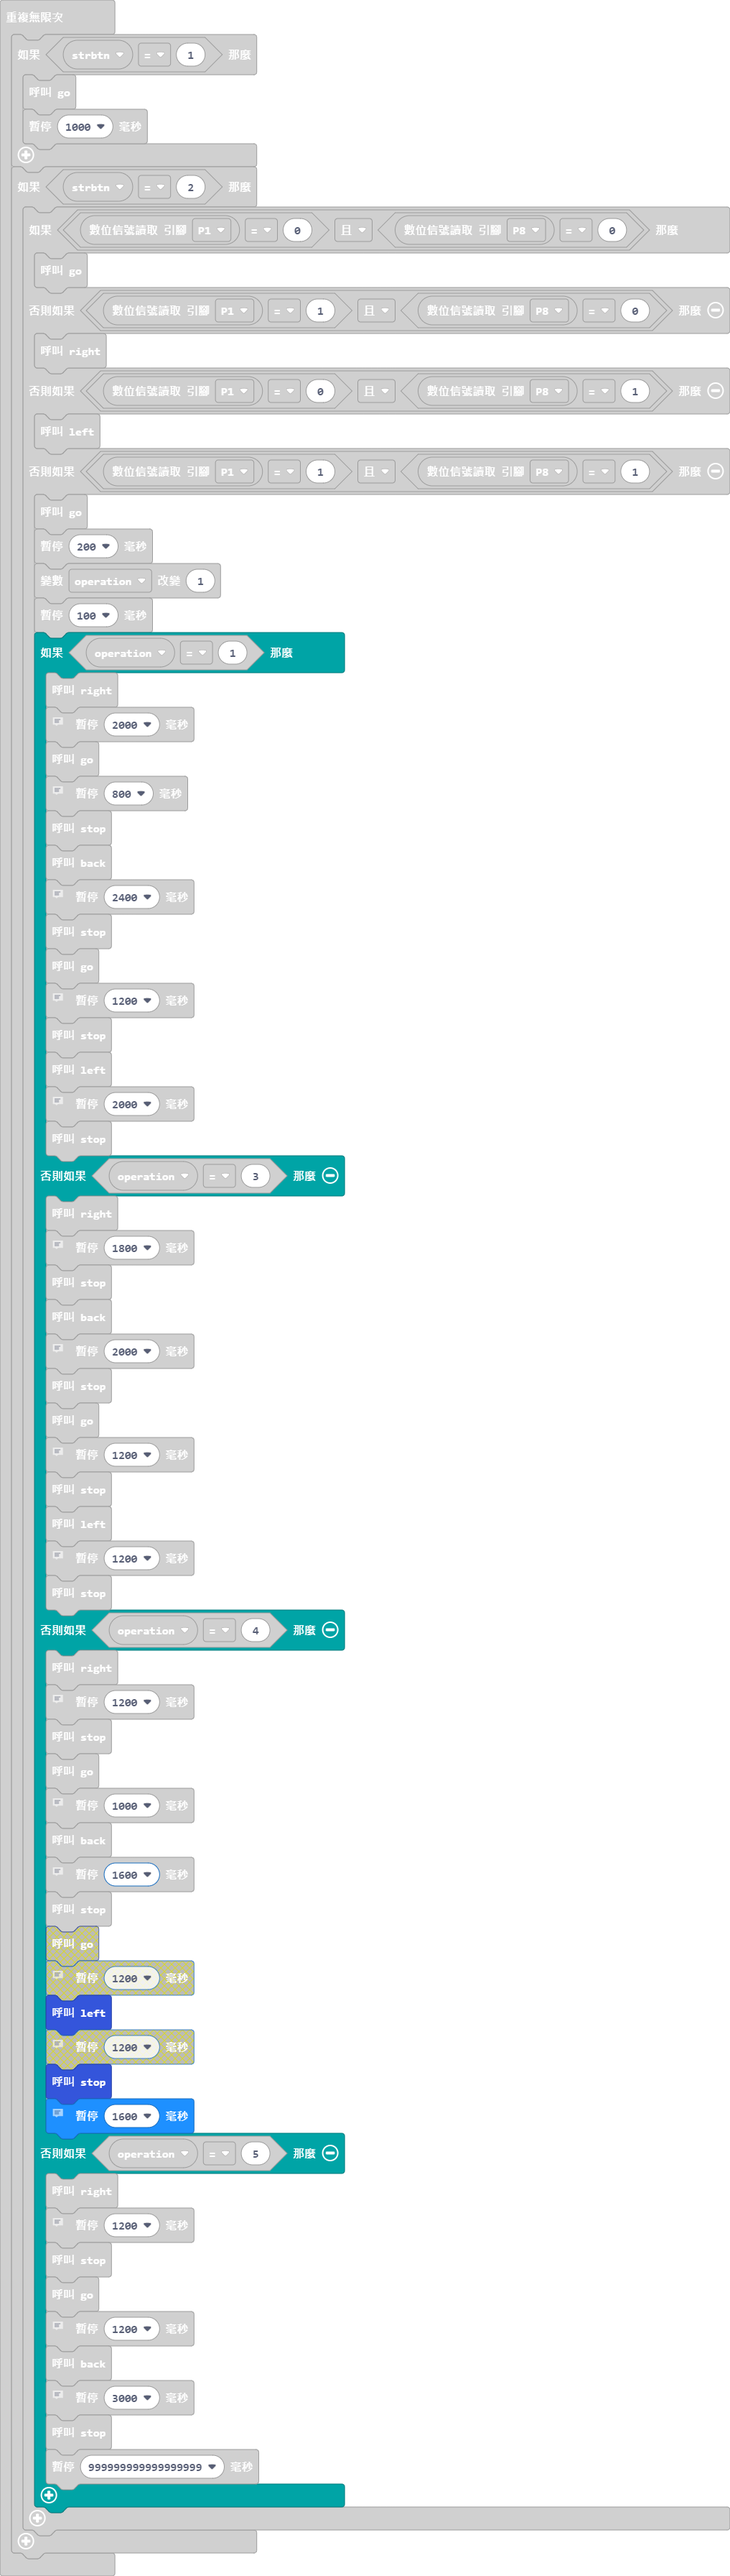
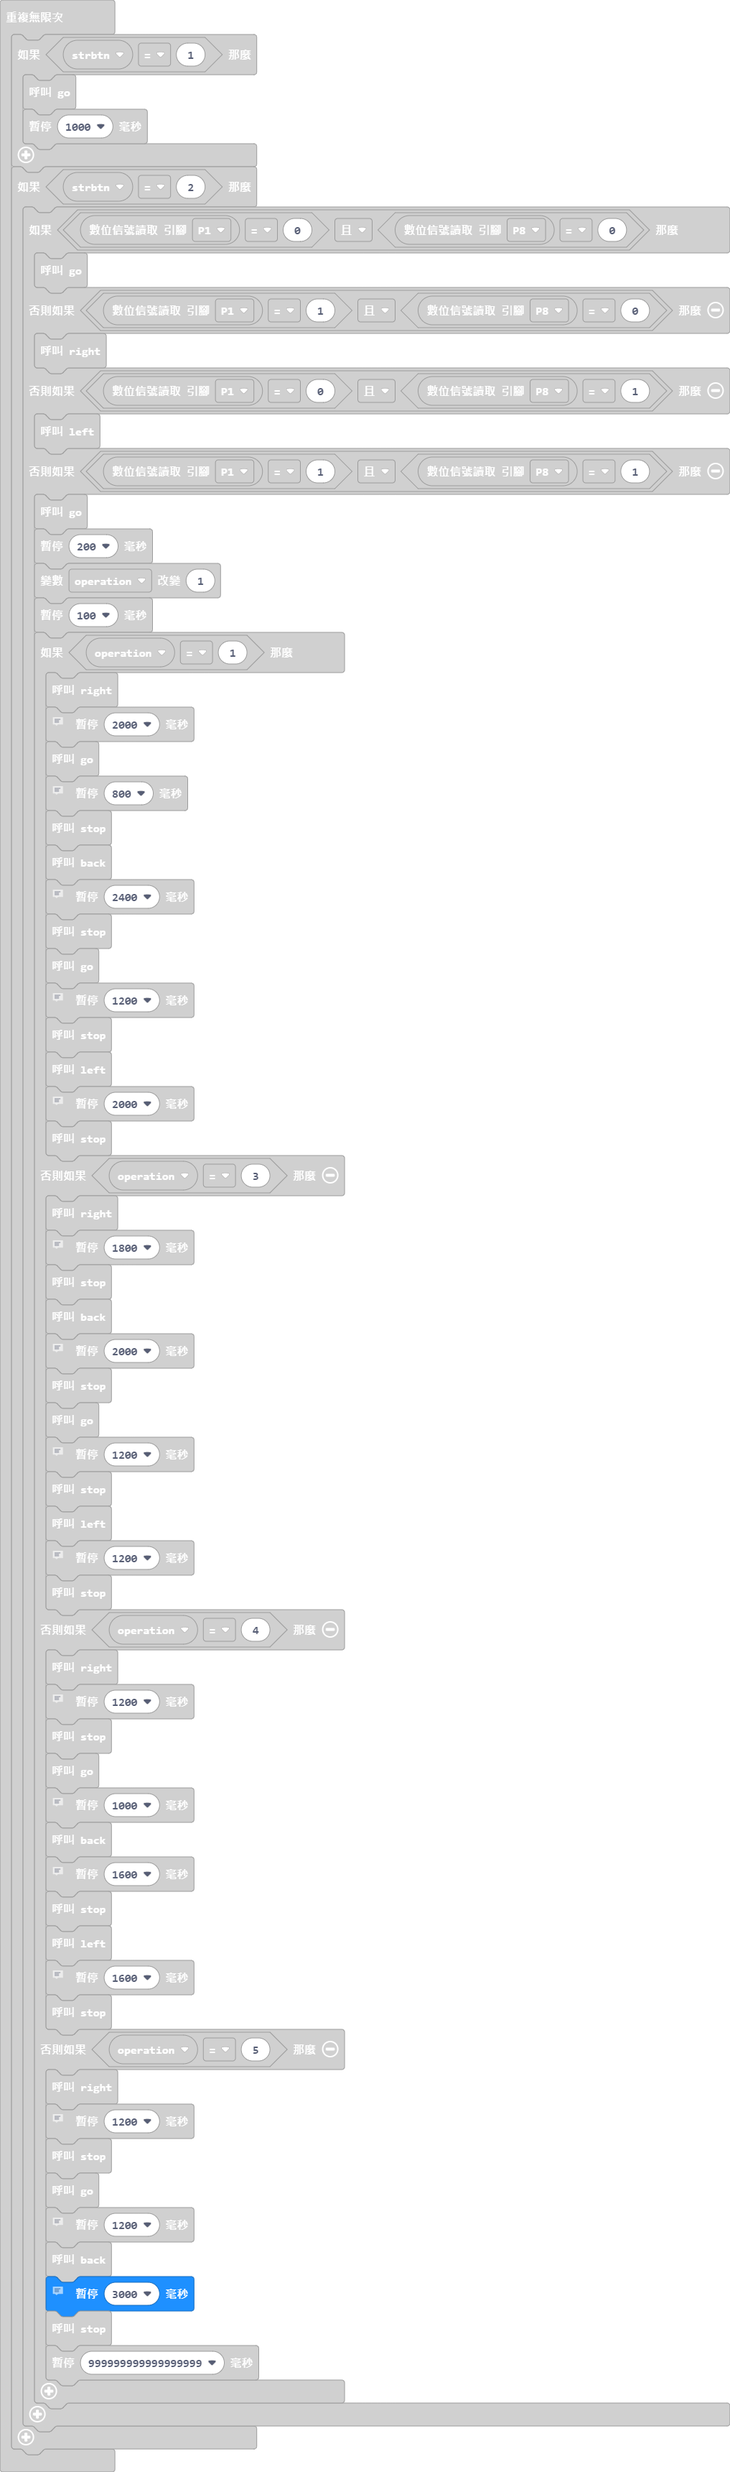
更新 main.blocks, main.ts

Changed region(s): [[0.0305, 0.0, 1.0, 0.9953]]

diff --git a/main.ts b/main.ts
@@ -168,6 +168,7 @@ basic.forever(function () {
                 basic.pause(1200)
                 back()
                 // 從E區後退推進ParkingPlace
+                // 
                 basic.pause(3000)
                 stop()
                 basic.pause(999999999999999999)
